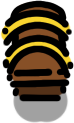
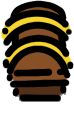
Fixed render prio in scene_02

Changed region(s): [[0.1622, 0.7561, 0.9189, 1.0]]

diff --git a/Game/Source/W2_Scene.cpp b/Game/Source/W2_Scene.cpp
@@ -237,6 +237,8 @@ bool W2_Scene::PostUpdate()
 {
 	bool ret = true;
 
+	app->map->PostDraw(player->position.y + 55);
+
 	if(app->input->GetKey(SDL_SCANCODE_ESCAPE) == KEY_DOWN)
 		ret = false;
 
